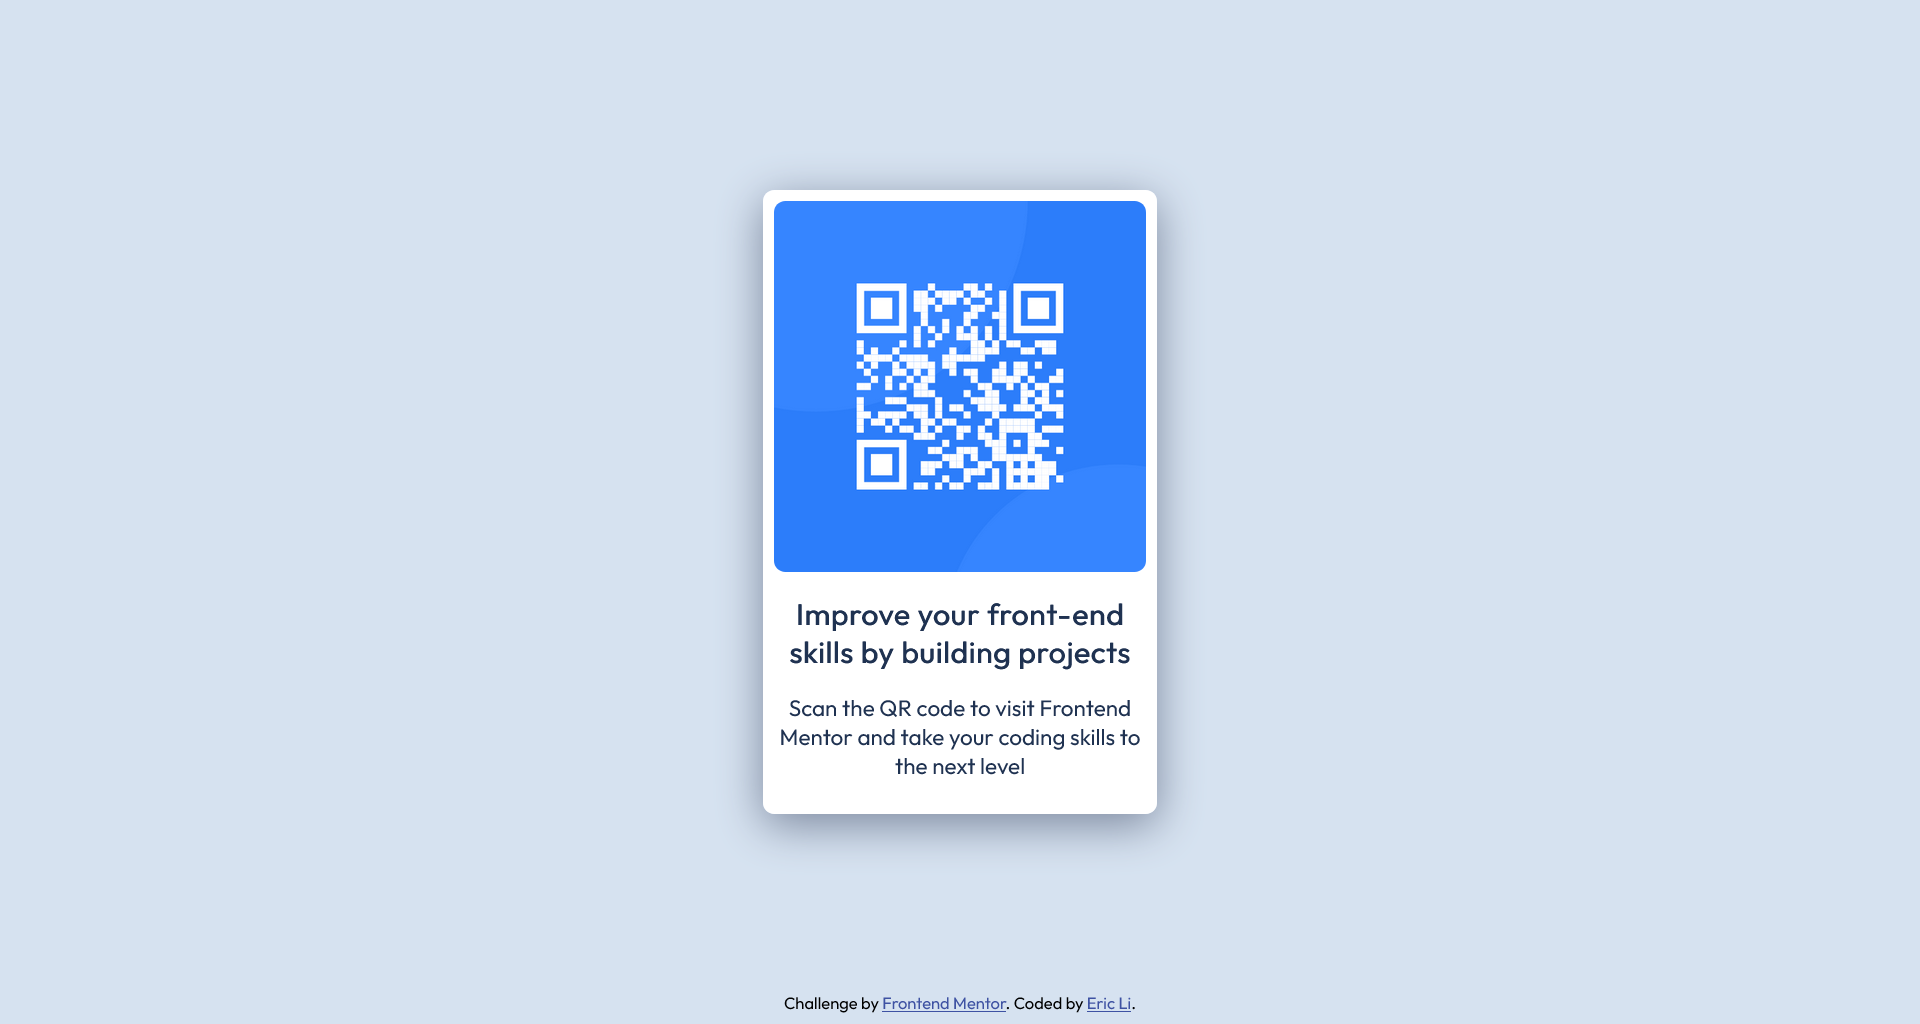
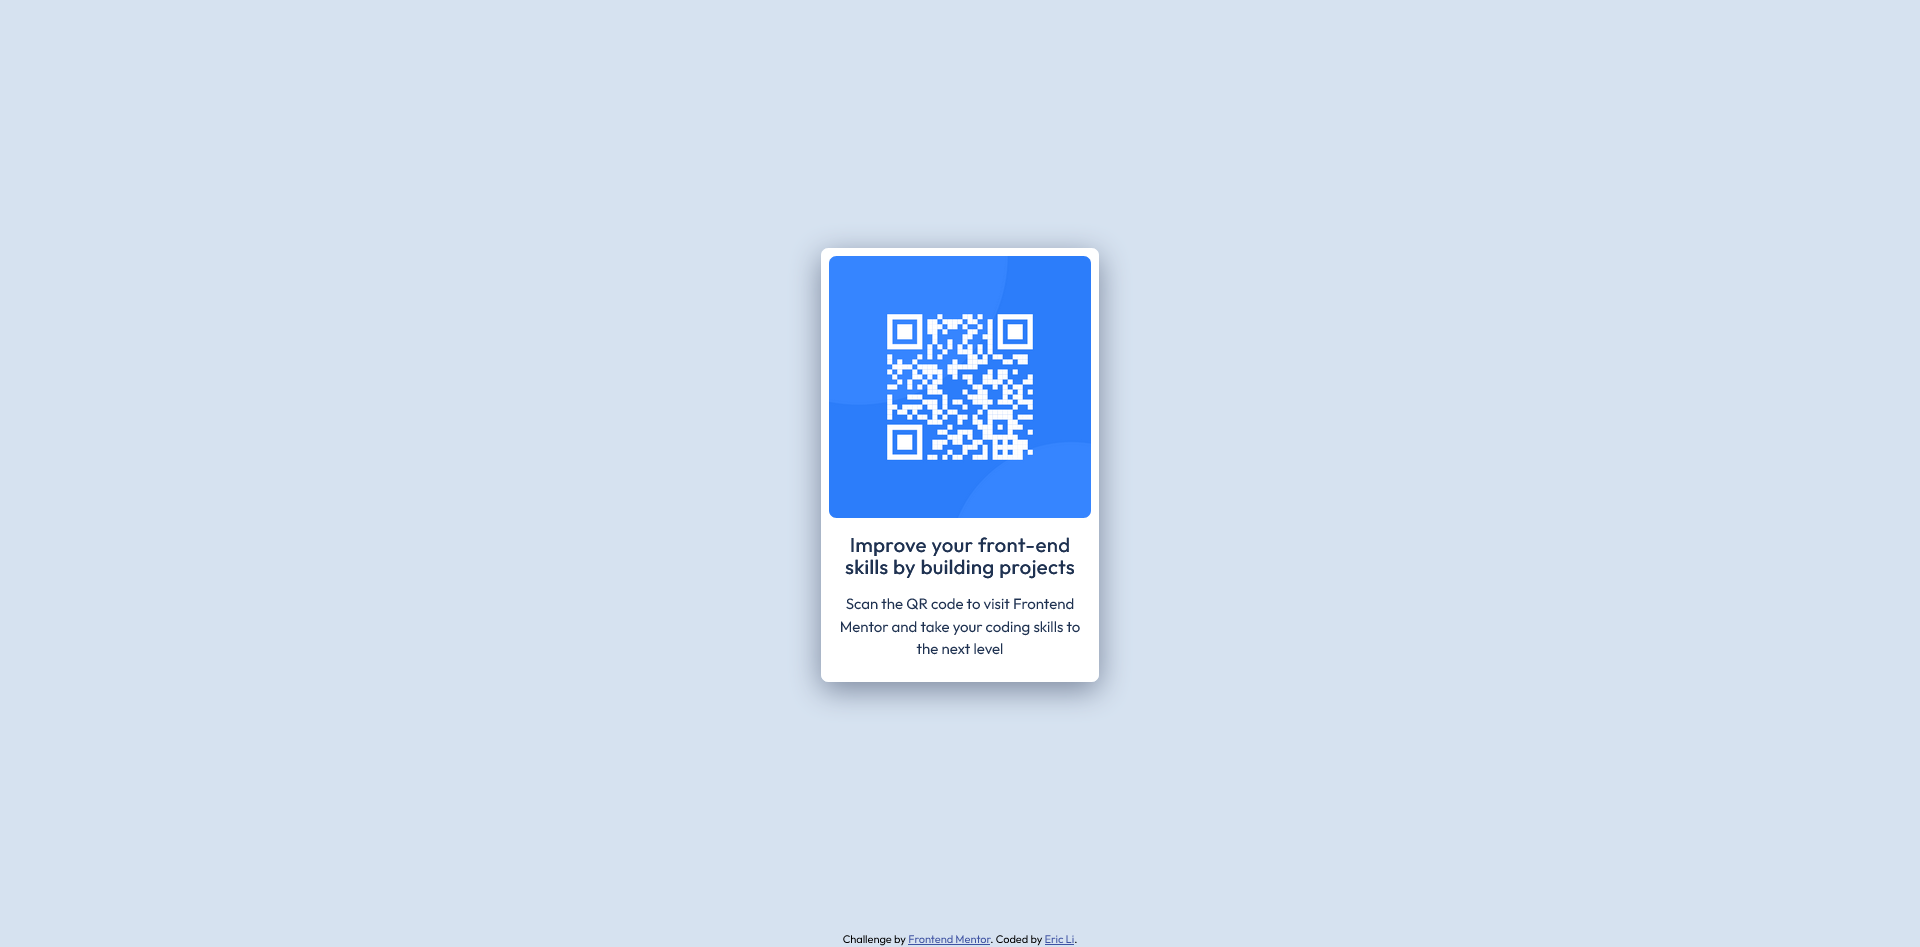
Add landmark

Changed region(s): [[0.375, 0.1837, 0.625, 0.8268], [0.4062, 0.9799, 0.5938, 1.0]]

diff --git a/index.html b/index.html
@@ -32,15 +32,15 @@
   </head>
   <body>
     
-    <div class="container">
+    <main class="container">
       <div class="card-container">
         <div class="card">
-          <img src="./images/image-qr-code.png" alt="QR code" />
-          <div class="card-heading">Improve your front-end skills by building projects</div>
-          <div class="card-description">
+          <img src="./images/image-qr-code.png" alt="QR code to the frontend mentor website" />
+          <h1 class="card-heading">Improve your front-end skills by building projects</h1>
+          <p class="card-description">
             Scan the QR code to visit Frontend Mentor and take your coding skills to
             the next level
-          </div>
+          </p>
         </div>
       </div>
       <div class="attribution">
@@ -49,6 +49,6 @@
           >Frontend Mentor</a
         >. Coded by <a href="#">Eric Li</a>.
       </div>
-    </div>
+    </main>
   </body>
 </html>

diff --git a/styles.css b/styles.css
@@ -78,8 +78,6 @@ html {
   --Dark-blue: hsl(218, 44%, 22%);
   font-family: 'Outfit', sans-serif;
   font-size: 15px;
-  margin: 0;
-  padding: 0;
 }
 
 body {
@@ -113,10 +111,11 @@ img {
   background-color: var(--White);
   border-radius: 0.5rem;
   box-shadow: 0 0.5rem 2rem var(--Grayish-blue);
-  width: 16.5rem;
+  max-width: 18.5rem;
+  margin: 1rem;
 }
 
-.card > div {
+.card > *:not(img) {
   text-align: center;
   color: var(--Dark-blue);
   margin-top: 1rem;
